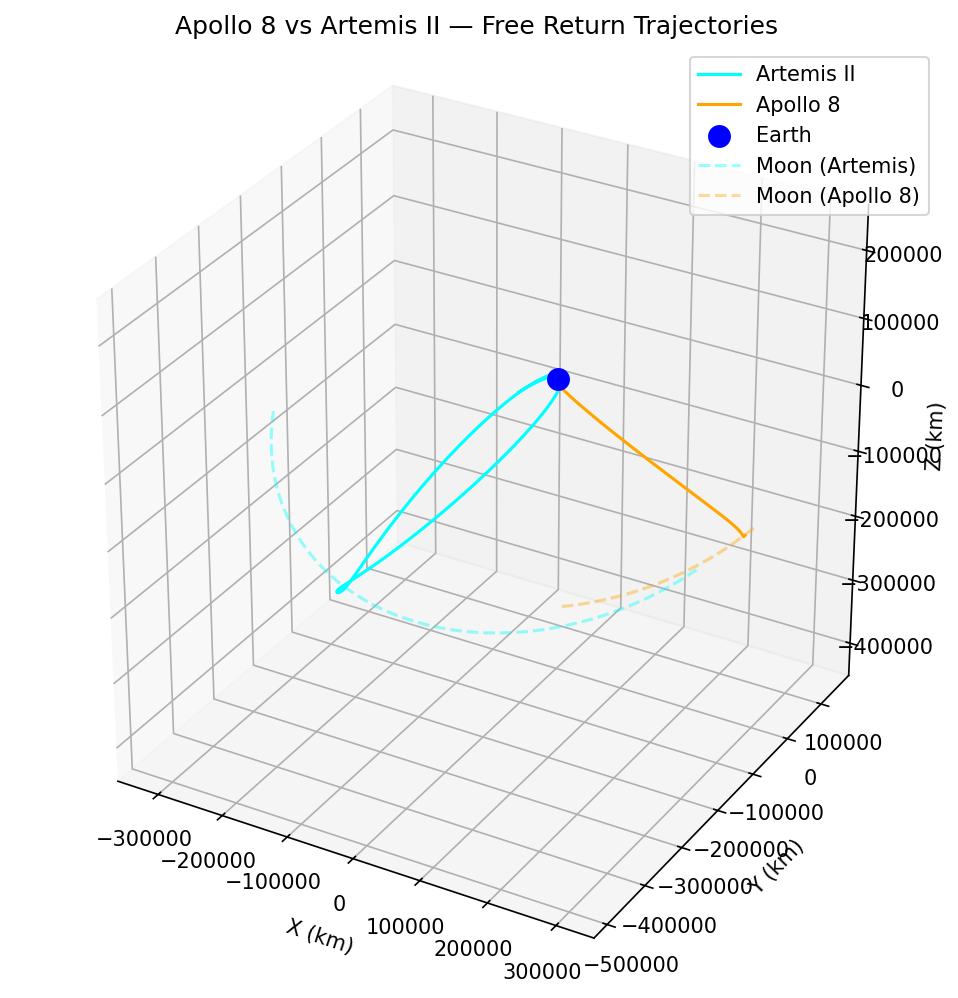
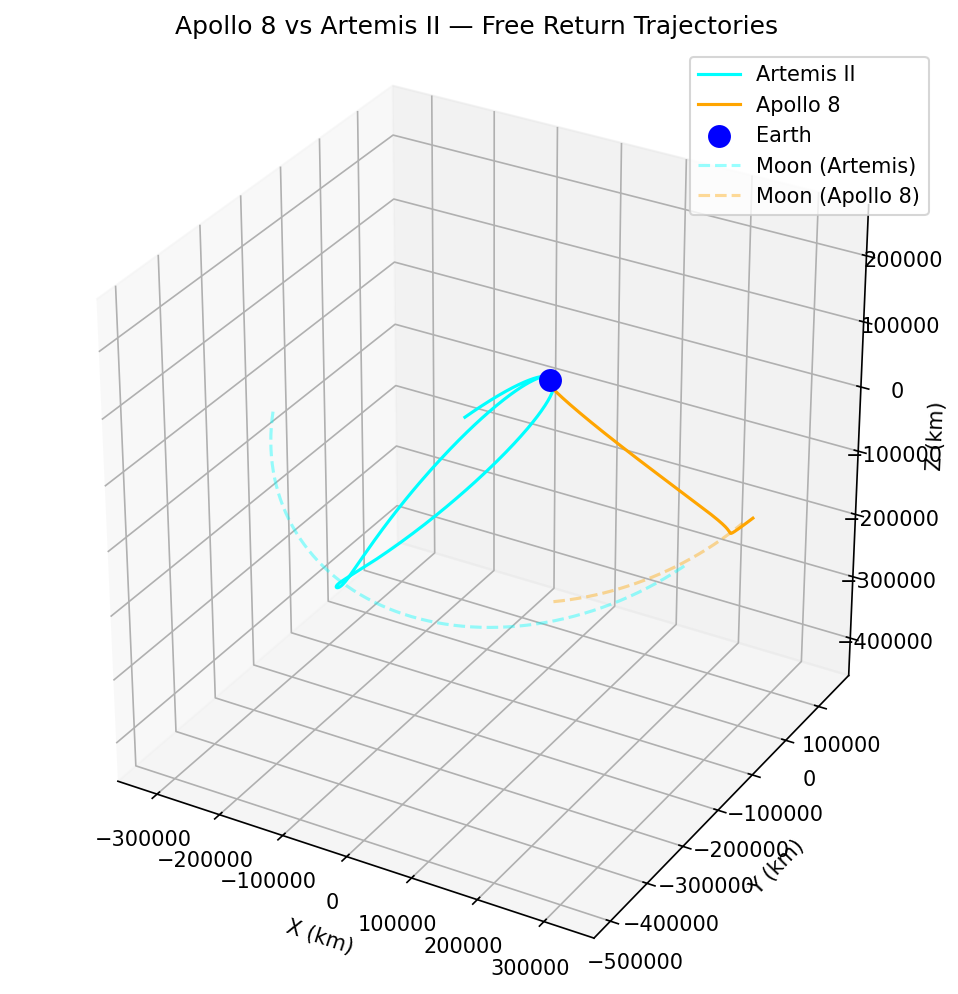
Add lunar indirect term, windowed error metrics, OEM burn detection; update README

diff --git a/propagator.py b/propagator.py
@@ -27,7 +27,7 @@ timestamps, rows = extract("Artemis_II_OEM_2026_04_04_to_EI.asc")
 state_0 = rows[349]
 
 # Integrator
-def run(two_body=False, t_span = (0, 10*24*60*60), state_0 = None, epoch=datetime(2026, 4, 2, 23, 56, 22), max_step=np.inf):
+def run(two_body=False, t_span = (0, 8.8*24*60*60), state_0 = None, epoch=datetime(2026, 4, 2, 23, 56, 22), max_step=np.inf,):
     
     if state_0 is None:
         state_0 = rows[349]
@@ -42,8 +42,8 @@ def run(two_body=False, t_span = (0, 10*24*60*60), state_0 = None, epoch=datetim
         if two_body:
             a_total = a_earth
         else:
-            moon_position = skyview(t_current.year, t_current.month, t_current.day, t_current.hour, t_current.minute, t_current.second)
-            a_moon = mu_moon * (moon_position - r) / np.linalg.norm(moon_position - r)**3
+            moon_position = skyview(t_current.year, t_current.month, t_current.day, t_current.hour, t_current.minute, t_current.second+t_current.microsecond/1e6)
+            a_moon = mu_moon * (moon_position - r) / np.linalg.norm(moon_position - r)**3 - mu_moon * moon_position / np.linalg.norm(moon_position)**3
             a_total = a_earth + a_moon
         
         return np.concatenate([v, a_total])
@@ -56,14 +56,16 @@ if __name__ == "__main__":
     solution_apollo8 = run(state_0=state_apollo8, t_span=(0, 259200), epoch=tli_datetime, max_step=500)
     moon_times_check = solution_apollo8.t
     min_moon_dist = np.inf
+    t_min = None
     for t in moon_times_check:
         t_current = tli_datetime + timedelta(seconds=t)
-        mp = skyview(t_current.year, t_current.month, t_current.day, t_current.hour, t_current.minute, t_current.second)
+        mp = skyview(t_current.year, t_current.month, t_current.day, t_current.hour, t_current.minute, t_current.second+t_current.microsecond/1e6)
         dist = np.linalg.norm(solution_apollo8.sol(t)[:3] - mp)
         if dist < min_moon_dist:
             min_moon_dist = dist
+            t_min = t
     print("Closest Moon approach:", min_moon_dist, "km")
-
+    print("Time of closest approach:", t_min, "s")
 
     # Extract trajectories    
     art_x = solution_artemis.y[0, :]
@@ -123,4 +125,7 @@ if __name__ == "__main__":
     ax.set_title('Apollo 8 vs Artemis II — Free Return Trajectories')
     ax.legend()
 
+    plt.savefig("eci_frame.png", dpi=150, bbox_inches="tight")
     plt.show()
+
+    

diff --git a/compare.py b/compare.py
@@ -11,19 +11,21 @@ epoch = datetime(2026, 4, 2, 23, 56, 22)
 elapsed_seconds = [(datetime.strptime(t, "%Y-%m-%dT%H:%M:%S.%f") - epoch).total_seconds() for t in timestamps[349:]]
 
 solution = run()
-states_propagated = solution.sol(elapsed_seconds)
+states_propagated = solution.sol(elapsed_seconds) #6xN
 
-oem_states = np.array(rows[349:])
+oem_states = np.array(rows[349:]) #Nx6
 
 pro_position = states_propagated[0:3, :]
 oem_position = oem_states[:, 0:3]
 
 error = np.linalg.norm(pro_position - oem_position.T, axis=0)
 
-print("max error (km):", error.max())
-print("mean error (km):", error.mean())
-
 elapsed_arr = np.array(elapsed_seconds)
+mask = elapsed_arr <= 300000
+
+print("max error up to 300,000 s (km):", error[mask].max())
+print("mean error up to 300,000 s (km):", error[mask].mean())
+
 idx = np.argmin(np.abs(elapsed_arr - 300000))
 print("error at 300,000 s:", error[idx])
 
@@ -43,10 +45,12 @@ ax2.set_xlabel("seconds since epoch")
 ax2.set_ylabel("specific orbital energy (km²/s²)")
 ax2.set_title("OEM Specific Orbital Energy")
 
-# Energy slowly rises (becomes less negative) from 0 to ~300,000 s as the s/c coasts outward —
-# expected in 3-body motion as the Moon continuously exchanges energy with the spacecraft.
-# The sharp change near ~340,000 s corresponds to closest lunar approach and aligns with
-# the spike in position error, where unmodeled correction burns cause the trajectories to diverge.
+
+plt.figure()
+plt.plot(elapsed_seconds[:-1], np.diff(oem_epsilon))
+plt.xlabel("seconds since epoch")
+plt.ylabel("step change in specific energy (km²/s²)")
+plt.title("OEM energy jumps (spikes = burns)")
 
 plt.tight_layout()
 plt.show()

diff --git a/apollo8_state.py b/apollo8_state.py
@@ -5,7 +5,7 @@ from datetime import datetime, timezone, timedelta
 # Apollo 8 TLI conditions per "Boeing Postflight Trajectory AS-503, Table 3-V
 # Range time: 10565.51 sec after launch (Dec 21 1968, 12:51:00 UTC)
 # Altitude: 346.73 km
-# Space-fixed velocity: 10822.05 m/s
+# Space-fixed velocity: 10822.05 m/s, inertial
 # Flight path angle: 7.897 deg
 # Heading angle: 67.494 deg
 # Geodetic latitude: 21.477 deg N
@@ -25,9 +25,8 @@ lat = np.deg2rad(lat_deg)
 lon = np.deg2rad(lon_deg)
 fpa = np.deg2rad(fpa_deg)
 hdg = np.deg2rad(hdg_deg)
-#hdg = np.deg2rad(-hdg_deg)
 
-R_earth = 6371 # km / mean
+R_earth = 6371 # km
 r = R_earth + alt_km
 
 X = r * np.cos(lat) * np.cos(lon)
@@ -45,8 +44,8 @@ vz_ef =  v_north*np.cos(lat)                             + v_up*np.sin(lat)
 
 ts=load.timescale()
 launch_time = ts.utc(1968,12,21,12,51,0)
-tli_time = ts.tt_jd(launch_time.tt + 10565.51 / 86400)
-gst = tli_time.gast * np.pi / 12
+tli_time = ts.tt_jd(launch_time.tt + 10565.51 / 86400) #terrestrial time for simple addition of elapsed time
+gst = tli_time.gast * np.pi / 12 # greenwich sidereal time
 tli_datetime = datetime(1968, 12, 21, 12, 51, 0, tzinfo=timezone.utc) + timedelta(seconds=10565.51)
 
 x = X * np.cos(gst) - Y * np.sin(gst)
@@ -58,6 +57,6 @@ vz = vz_ef
 
 state_apollo8 = np.array([x, y, z, vx, vy, vz])
 
-# print(tli_datetime)
+
 
 

diff --git a/verify.py b/verify.py
@@ -21,7 +21,7 @@ print("epsilon drift: ", epsilon.max() - epsilon.min())
 
 ## Angular Momentum Magnitude -----------------------------------------------------------------------
 # how much rotational motion does the s/c have around Earth. For 2-body = constant
-angular_momentum = np.cross(r,v, axisa=0, axisb=0)
+angular_momentum = np.cross(r,v, axisa=0, axisb=0) #input is 3xN arrays, output is Nx3
 angular_momentum_norm = np.linalg.norm(angular_momentum, axis = 1)
 
 print("min h: ",angular_momentum_norm.min(), "max h: ", angular_momentum_norm.max())
@@ -41,5 +41,3 @@ print("T_kepler: " , T_kepler)
 print("T_numerical: ", T_numerical)
 print("error %: ", abs(T_numerical - T_kepler) / T_kepler*100)
 # 0.059% error. acceptable for numerical integrator
-# My point-mass gravity model matches the real Artemis II trajectory to within 3,790 km through the first 4 days of ballistic flight, after which error grows due to a trajectory correction burn that my model doesn't account for.
-# A simple two-force model - Earth and the moon's gravity - reproduces a real lunar mission trajectory to within 3,790 kilometers using publicly avaiable flight data. The limitation is known

diff --git a/rotating_frame.py b/rotating_frame.py
@@ -1,3 +1,4 @@
+
 # Run Artemis II propagation to get states over 10 days
 # At each timestep, get the Moon's position
 # Compute the angle the Moon makes with the x-axis at each timestep
@@ -16,7 +17,7 @@ epoch = datetime(2026, 4, 2, 23, 56, 22)
 solution = run()
 
 # Sample trajectory at evenly spaced points
-t_points = np.linspace(0, 8.5 * 24 * 3600, 1000)
+t_points = np.linspace(0, 8.68 * 24 * 3600, 1000)
 states = solution.sol(t_points)
 sc_x = states[0,:]
 sc_y = states[1,:]
@@ -98,4 +99,5 @@ ax.grid(True, alpha=0.3)
 plt.tight_layout()
 plt.savefig('rotating_frame.png', dpi=150, bbox_inches='tight')
 plt.show()
+
 

diff --git a/oem_vs_propagator_3d.py b/oem_vs_propagator_3d.py
@@ -36,7 +36,7 @@ prop_z = states[2, :]
 fig = plt.figure(figsize=(12, 8))
 ax = fig.add_subplot(111, projection='3d')
 
-ax.plot(oem_x, oem_y, oem_z, color='black', linewidth=1.5, label='OEM (actual)')
+ax.plot(oem_x, oem_y, oem_z, color='black', linewidth=1.5, label='OEM (NASA planning)')
 ax.plot(prop_x, prop_y, prop_z, color='cyan', linewidth=1.5, linestyle='--', label='Propagated')
 ax.scatter(0, 0, 0, color='blue', s=100, label='Earth')
 

diff --git a/lunar_pos.py b/lunar_pos.py
@@ -10,3 +10,4 @@ def skyview(year, month, day, hour, minute, second):
     t = ts.utc(year, month, day, hour, minute, second)
     moon_pos = (moon - earth).at(t).position.km  # geocentric Moon position in km
     return moon_pos
+

diff --git a/README.md b/README.md
@@ -1,99 +1,75 @@
 # free-return
 
-A restricted three-body lunar trajectory simulator comparing the Apollo 8 and Artemis II translunar trajectories. Built from scratch in Python using real mission data and JPL ephemeris.
+An Earth–Moon trajectory simulator that propagates the Apollo 8 and Artemis II free-return trajectories, built from scratch in Python with JPL ephemeris, NASA's Artemis II ephemeris, and 1969 Apollo 8 postflight data.
+
+![Rotating Frame](rotating_frame.png)
+
+## Key Results
+
+- Artemis II propagation stays within **~1,900 km** of NASA's planning ephemeris at 3.5 days (~0.5% of the Earth–Moon distance)
+- Two-body verification conserves energy to **~1 part in 56 million** and angular momentum to **~1 part in 1.6 billion**
+- Detected and sized a planned correction burn in the reference ephemeris (**~0.25 m/s**, ~30 km effect) from jumps in specific energy
+- Reconstructed Apollo 8's TLI state in ECI from 1969 Boeing postflight trajectory data
 
 ---
 
 ## Background
 
-A free-return trajectory is a translunar path engineered so that a spacecraft will naturally loop around the Moon and return to Earth using only gravity, no major engine burns required after the initial translunar injection. Both Apollo 8 (1968) and Artemis II (2026) flew variations of this trajectory, but with meaningful differences: Apollo 8 required a lunar orbit insertion burn to enter orbit around the Moon before returning, while Artemis II flew a pure free-return flyby with no lunar orbit insertion.
-
-This project propagates both trajectories using a restricted three-body model (Earth + Moon + spacecraft) and visualizes them in both the inertial ECI frame and the Earth-Moon rotating (synodic) frame, where the characteristic free-return shape becomes apparent.
+A free-return trajectory is a translunar path that loops around the Moon and returns to Earth on gravity alone, with no major burns after translunar injection (TLI). Apollo 8 (1968) used one before entering lunar orbit; Artemis II (2026) flew a pure free-return flyby. This project propagates both from their post-TLI states and visualizes them in the inertial (ECI) and Earth–Moon rotating frames.
 
 ---
 
-## What the Model Does
+## Model
 
-- **Propagator:** `scipy.integrate.solve_ivp` with RK45, `rtol=1e-9`, `atol=1e-12`
-- **Gravitational model:** Earth point-mass + Moon point-mass (restricted three-body)
-- **Moon position:** JPL DE421 ephemeris via Skyfield — queried at each integrator timestep
-- **Artemis II initial state:** Sourced from the mission OEM file at TLI epoch (`2026-04-02T23:56:22 UTC`)
-- **Apollo 8 initial state:** Converted from polar to ECI using flight path angle, heading, geodetic latitude, and longitude per *Boeing Postflight Trajectory AS-503, Table 3-V*
-- **Dense output:** Enabled for continuous trajectory evaluation at arbitrary time points
+- **Gravity:** Earth and Moon point masses in an Earth-centered frame, including the Moon's indirect term
+- **Moon position:** JPL DE421 via Skyfield, evaluated at each integrator step
+- **Integrator:** `scipy.integrate.solve_ivp`, RK45, `rtol=1e-9`, `atol=1e-12`, dense output
+- **Artemis II initial state:** first post-TLI state in the NASA OEM (`2026-04-02T23:56:22.480 UTC`, ~790 km altitude)
+- **Apollo 8 initial state:** TLI flight parameters (altitude, velocity, flight path angle, heading, geodetic latitude, longitude) converted to ECI
 
 ---
 
-## Validation
+## Verification
 
-Internal consistency was verified by checking conservation laws over the propagated arc and comparing the numerical period against the analytical Kepler period.
+Earth-only (two-body) propagations check the integrator and gravity model against quantities that must be conserved and a known analytical result.
 
-### Energy Conservation
-
-| Metric | Value |
+| Check | Result |
 |---|---|
-| Min specific energy | −0.858190868 MJ/kg |
-| Max specific energy | −0.858190853 MJ/kg |
-| Fractional drift (ε) | 1.53 × 10⁻⁸ (~1 part in 65 million) |
-
-### Angular Momentum Conservation
-
-| Metric | Value |
-|---|---|
-| Min \|h\| | 71,868.248068 km²/s |
-| Max \|h\| | 71,868.248112 km²/s |
-| Fractional drift | 6.18 × 10⁻¹⁰ (~1 part in 1.6 billion) |
-
-### Kepler Period Cross-Check
-
-| Metric | Value |
-|---|---|
-| Analytical Kepler period | 7,121.08 s |
-| Numerical period | 7,116.86 s |
-| Error | 0.059% |
-
-These results confirm that the integrator is maintaining physical consistency at tight tolerances across the full propagation arc.
+| Specific energy drift (10 days) | 1.78 × 10⁻⁸ (~1 part in 56 million) |
+| Angular momentum drift (10 days) | 6.18 × 10⁻¹⁰ (~1 part in 1.6 billion) |
+| Kepler period vs. 2π√(a³/μ) | 0.059% (limited by crossing-time detection) |
 
 ---
 
 ## Results
 
-### OEM Overlay — Artemis II
+### Artemis II vs. NASA Planning Ephemeris
 
-The propagated trajectory was compared against the Artemis II OEM reference data over the translunar coast:
-
-| Metric | Value |
-|---|---|
-| Error at 300,000 s (~3.5 days) | 3,790 km |
-| Mean position error (full arc) | 27,643 km |
-| Max position error | 169,688 km |
-
-Position error remains low through approximately day 3.5, then diverges sharply. This is consistent with the first unmodeled correction burn (OTC-2) occurring near closest lunar approach, after which the ballistic model and the actual trajectory separate. The model captures the outbound translunar coast accurately; it does not attempt to replicate post-flyby maneuvers.
-
-### Apollo 8 Closest Lunar Approach
+Compared over the translunar coast, before closest lunar approach:
 
 | Metric | Value |
 |---|---|
-| Modeled closest approach | 930 km |
-| Actual closest approach | ~112 km |
+| Error at 300,000 s (~3.5 days) | 1,926 km |
+| Max error, 0–300,000 s | 1,924 km |
+| Mean error, 0–300,000 s | 817 km |
 
-The ~818 km discrepancy reflects the ballistic nature of the model. Apollo 8's actual trajectory included a lunar orbit insertion burn that tightened the approach. The model captures the outbound translunar coast geometry accurately; the departure from actual closest approach distance is expected and understood.
+The reference contains one planned burn in this window (~172,000 s, flight day 4), identified from a jump in the OEM's specific energy. It is about 0.25 m/s and accounts for roughly 30 km of the error. The remainder is attributed to unmodeled forces, mainly Earth oblateness (J2) and solar gravity. After closest approach, the lunar flyby amplifies small differences, so error is reported up to 300,000 s.
+
+### Apollo 8
+
+Apollo 8 is propagated as a ballistic free-return from TLI. The flown spacecraft also performed a midcourse correction (~6 m/s, ~11 hours after launch) that is not modeled, so its closest approach is not used for validation. The modeled closest approach is 1,384 km from the Moon's center.
 
 ---
 
 ## Figures
 
 ### Inertial Frame (ECI)
-Both trajectories in Earth-Centered Inertial coordinates. Earth at origin; dashed lines show the Moon's position over each mission's timeframe.
+Both trajectories in Earth-centered inertial coordinates; dashed lines show the Moon's path over each mission.
 
 ![Inertial Frame](eci_frame.png)
 
-### Rotating Frame (Synodic)
-Both trajectories transformed into the Earth-Moon rotating frame, where the Moon is fixed on the positive x-axis. The free-return shape is visible in this frame: Artemis II completes the full outbound-flyby-return arc over approximately 8.5 days, with the characteristic free-return crossover visible near Earth on the return leg; Apollo 8 shows the outbound translunar coast over 3 days before the unmodeled LOI burn. The rotating frame transformation applies a 2D rotation in Earth's equatorial plane, which is a standard simplification for near-planar lunar trajectories.
-
-![Rotating Frame](rotating_frame.png)
-
-### OEM vs Propagated — Inertial Frame 3D
-The propagated Artemis II trajectory (cyan dashed) overlaid against the actual flight data from the mission OEM file (black). Both paths track closely through the translunar coast and lunar flyby, diverging on the return leg where unmodeled correction burns (OTC-2) redirect the actual trajectory. The OEM loop near Earth reflects the parking orbit prior to TLI, which the propagator does not capture as it begins at the TLI state vector.
+### OEM vs. Propagated (Artemis II)
+Propagated trajectory (cyan dashed) against NASA's planning ephemeris (black). The paths track through the translunar coast and separate after the lunar flyby.
 
 ![OEM vs Propagated](oem_vs_propagator_3d.png)
 
@@ -101,54 +77,33 @@ The propagated Artemis II trajectory (cyan dashed) overlaid against the actual f
 
 ## Limitations
 
-- **Ballistic model only** — no delta-V burns modeled (no OTC-2/RTC-1 for Artemis II, no LOI for Apollo 8)
-- **Point-mass gravity** — no solar gravity, no lunar oblateness, no SRP
-- **Apollo 8 outbound only** — 3-day propagation to closest lunar approach; return leg not modeled due to LOI burn dependency
-- **Artemis II** — 8.5-day propagation from TLI epoch captures the full free-return arc; small correction burns cause gradual divergence from the actual trajectory after closest approach
-
----
-
-## Dependencies
-
-```
-numpy
-scipy
-matplotlib
-skyfield
-```
-
-Install with:
-```bash
-pip install numpy scipy matplotlib skyfield
-```
-
-The Skyfield ephemeris file (`de421.bsp`) will download automatically on first run.
+- No burns modeled (Artemis II planned correction burn; Apollo 8 MCC-1 and LOI)
+- No Earth oblateness (J2), solar gravity, lunar oblateness, or solar radiation pressure
+- Artemis II reference is a planning ephemeris, not reconstructed flight data
+- Apollo 8 propagated outbound only (3 days to closest approach)
 
 ---
 
 ## How to Run
 
+Run from inside the `free-return` folder.
+
 ```bash
-# Inertial frame plot + Apollo 8 closest approach validation
-python3 propagator.py
+pip install numpy scipy matplotlib skyfield
 
-# OEM overlay and error analysis (requires Artemis II OEM file)
-python3 compare.py
-
-# Earth-Moon rotating frame comparison plot
-python3 rotating_frame.py
-
-# Conservation law and Kepler period validation
-python3 verify.py
-
-# OEM vs propagated 3D validation plot
-python3 oem_vs_propagator_3d.py
+python3 propagator.py            # ECI plot + Apollo 8 closest approach
+python3 compare.py               # Artemis II error analysis + OEM burn detection
+python3 rotating_frame.py        # Earth–Moon rotating frame plot
+python3 verify.py                # Two-body verification
+python3 oem_vs_propagator_3d.py  # OEM vs. propagated 3D plot
 ```
+
+The Skyfield ephemeris file (`de421.bsp`) downloads automatically on first run.
 
 ---
 
 ## Data Sources
 
-- **Artemis II OEM:** NASA AROW (Artemis Real-time Orbit Website), publicly available mission trajectory data, April 2026
-- **Apollo 8 TLI state:** *Saturn V Launch Vehicle Flight Evaluation Report AS-503*, Boeing, Table 3-V
+- **Artemis II:** NASA AROW Orbit Ephemeris Message, April 2026 (planning product)
+- **Apollo 8 TLI state:** *Apollo/Saturn V Postflight Trajectory – AS-503*, Boeing, D5-15794 (1969), Table 3-V
 - **Moon ephemeris:** JPL DE421 via [Skyfield](https://rhodesmill.org/skyfield/)
